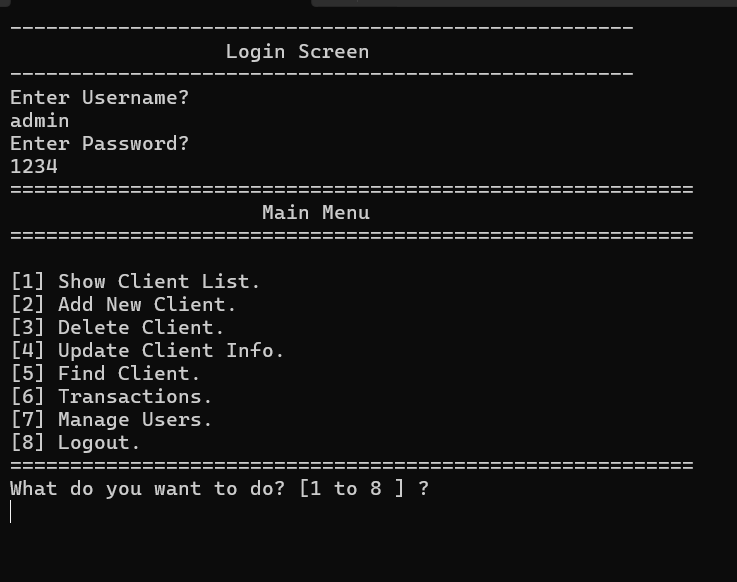
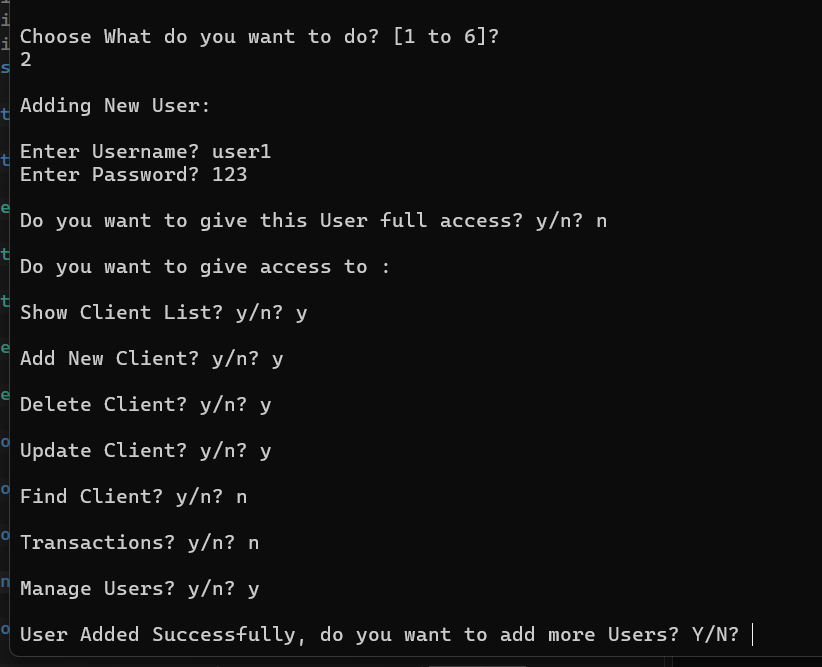
Update README screenshots

Changed region(s): [[0.0, 0.0, 1.0, 0.8969], [0.0, 0.9278, 0.905, 1.0]]

diff --git a/README.md b/README.md
@@ -2,15 +2,13 @@
 
 A console-based Bank Management System written in C++. The project provides client account management, banking transactions, user authentication, and a permission-based user management system.
 
-# Features
-
-# 🔐 Authentication
+# Authentication
 
 * Username/password login system
 * Login loop until valid credentials are entered
 * Logout and return to the login screen
 
-# 👤 Client Management
+# Client Management
 
 * List all clients
 * Add a new client
@@ -18,14 +16,14 @@ A console-based Bank Management System written in C++. The project provides clie
 * Update client information
 * Find a client by account number
 
-# 💰 Transactions
+# Transactions
 
 * Deposit funds
 * Withdraw funds
 * Prevent withdrawals that exceed the available balance
 * View total balances across all clients
 
-#  👥 User Management
+#  User Management
 
 * List all users
 * Add a new user
@@ -34,7 +32,7 @@ A console-based Bank Management System written in C++. The project provides clie
 * Find a user by username
 * Assign permissions to each user
 
-# 🔑 Permission System
+# Permission System
 
 The system uses a **bitmask-based permission system** to control access to different features.
 
@@ -59,15 +57,28 @@ For example:
 permissions = 3
 ```
 
-means the user has:
+## Screenshots
 
-* Show Client List (`1`)
-* Add New Client (`2`)
+### Login Screen
 
-A permission value of `-1` gives the user full access.
+![Login Screen](screenshots/login.png)
 
----
+### Main Menu
 
+![Main Menu](screenshots/main-menu.png)
+
+
+### Transactions
+
+![Transactions](screenshots/transactions.png)
+
+### User Management
+
+![User Management](screenshots/user-management.png)
+
+### Permission System
+
+![Permission System](screenshots/permissions.png)
 
 
 ### User (`stuserinfo`)
@@ -101,34 +112,6 @@ A permission value of `-1` gives the user full access.
 7. Manage Users
 8. Logout
 ```
----
-
-## Screenshots
-
-### Login Screen
-
-![Login Screen](screenshots/login.png)
-
-### Main Menu
-
-![Main Menu](screenshots/main-menu.png)
-
-### Client Management
-
-![Client Management](screenshots/client-management.png)
-
-### Transactions
-
-![Transactions](screenshots/transactions.png)
-
-### User Management
-
-![User Management](screenshots/user-management.png)
-
-### Permission System
-
-![Permission System](screenshots/permissions.png)
-
 
 ## Requirements
 
@@ -141,22 +124,6 @@ The project uses Windows-specific commands such as:
 system("cls");
 system("pause>0");
 ```
-
-## Running
-
-Run the compiled program.
-
-On the first run, a user must exist in `Users.text`.
-
-Example administrator account:
-
-```text
-Username: admin
-Password: 1234
-Permissions: -1
-```
-
----
 
 ## Known Limitations
 
@@ -186,6 +153,3 @@ Bank-Management-System/
     ├── transactions.png
     ├── user-management.png
     └── permissions.png
-```
-
----
